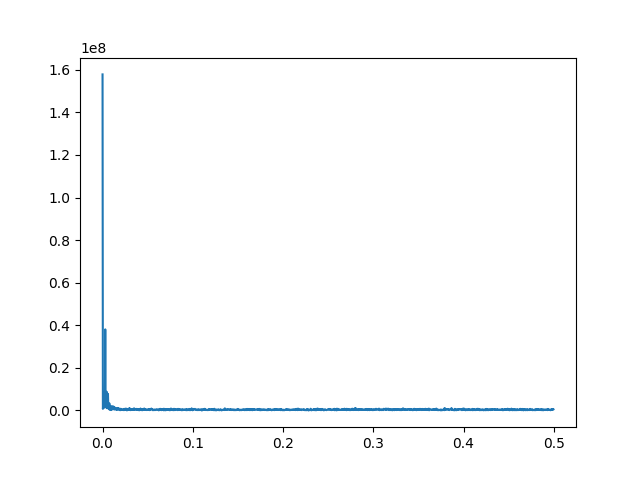
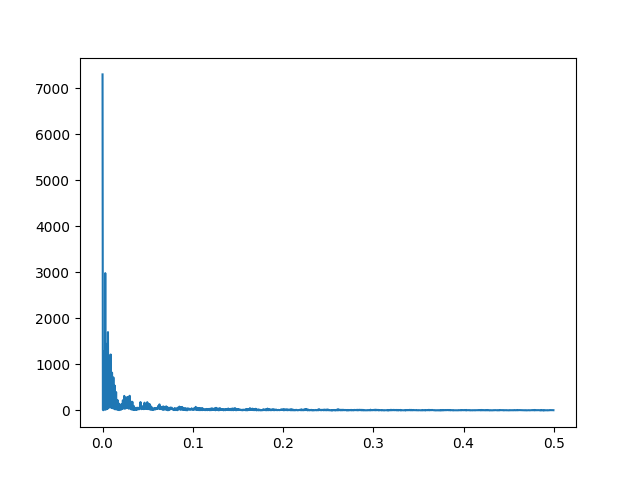
Reordered fft evaluation module

diff --git a/show_results.py b/show_results.py
@@ -6,7 +6,7 @@ Created on 09 apr 2018
 from matplotlib import pyplot as plt
 from matplotlib import figure
 import numpy as np
-from sympy.plotting.intervalmath.interval_arithmetic import interval
+from scipy import interpolate
 
 class Measure(object):
     def __init__(self,id,hours,area_roi,aspect_roi,R,third_moment,uniformity):
@@ -18,6 +18,27 @@ class Measure(object):
         self.third_moment=third_moment
         self.uniformity=uniformity
         
+def interpolate_measurements(xdata,ydata):
+    new_xdata = np.linspace(min(xdata), max(xdata), len(xdata))
+    f = interpolate.interp1d(xdata, ydata)
+    new_ydata = f(new_xdata)   # use interpolation function returned by `interp1d`
+    return new_xdata,new_ydata
+    
+def evaluate_fft(x_data,y_data,peak_threshold):
+
+    A=np.fft.fft(y_data)
+    freq = np.fft.fftfreq(len(x_data))
+    spectrum=np.abs(A)
+    
+    fig,ax=plt.subplots()
+    ax.plot(freq[:len(freq)/2],spectrum[:len(spectrum)/2])
+    plt.savefig('fft.png')
+    threshold = peak_threshold * max(spectrum)
+    mask = abs(spectrum) > threshold
+    
+    Ts=(max(x_data)-min(x_data))/len(x_data)
+    peaks = freq[mask]/Ts
+    return freq,spectrum,peaks
         
 if __name__ == '__main__':
     f=open('results.txt','r')
@@ -62,29 +83,13 @@ if __name__ == '__main__':
     
     plt.savefig('Rvshours.png')
     
+    interp_hours,interp_area=interpolate_measurements(hours, ACmotion)
     
-    A=np.fft.fft(area_roi)
-    freq = np.fft.fftfreq(len(A))
-    spectrum=np.abs(A)
+    freq,spectrum,peaks=evaluate_fft(interp_hours, interp_area, peak_threshold=0.1)
     
-    fig,ax=plt.subplots()
-    ax.plot(freq[:len(freq)/2],spectrum[:len(spectrum)/2])
-    plt.savefig('fft.png')
-    threshold = 0.01 * max(spectrum)
-    mask = abs(spectrum) > threshold
-    
-    
-    start=0
-    intervals=[]
-    for stop in hours:
-        intervals.append(stop-start)
-        start=stop
-    fs= 1.0/np.mean(intervals)
-    
-    peaks = freq[mask]*fs
     print peaks
         
-    
+
  
     
         
